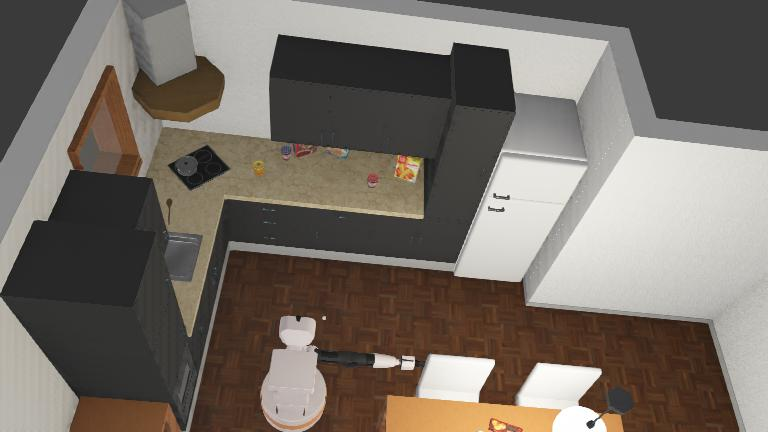
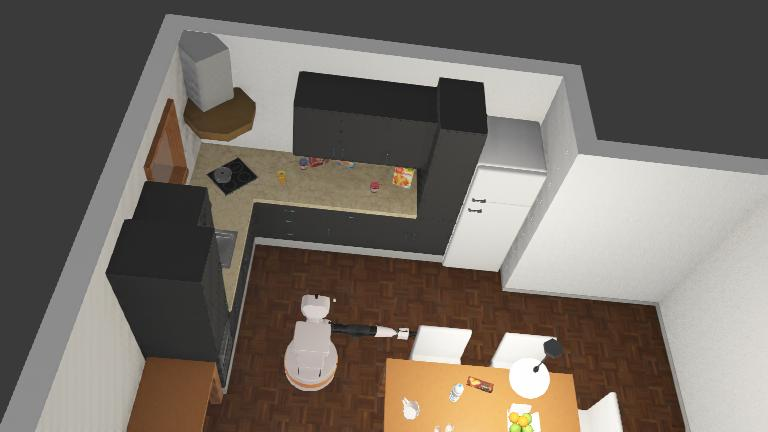
have grip around jar 2

diff --git a/controllers/main_controller/main_controller.py b/controllers/main_controller/main_controller.py
@@ -22,6 +22,7 @@ robot = Supervisor()
 mapping_waypoints = [(0.595, -0.544), (0.595,-2.58), (-0.621, -3.3),(-1.72, -2.46),(-1.72, -2.16),(-1.72, -1.96), (-1.72, -0.431),(-0.416, 0.428),(-1.24, 0.0458),(-1.59, -0.305),(-1.67, -0.651),(-1.67, -1.049),(-1.67, -2.46),(-0.621, -3.3), (0.595, -2.58),(0.595, -0.544),(-0.207,0.263),(-0.207,0.263)]
 jar1_waypoints = [(0.957,-0.082)]
 jar1_place_waypoints = [(0.38,-0.583)]
+jar2_waypoints = [(1.14,0.466)]
 
 
 # Used to store global state
@@ -79,6 +80,17 @@ reach = {
     'head_2_joint':0	
 }
 
+reach_maintain_grip = {
+    'torso_lift_joint' : 0.26,
+    'arm_1_joint' : 1.68,
+    'arm_2_joint' : -0.03,
+    'arm_3_joint' : -1.6,
+    'arm_4_joint' : 0,
+    'arm_5_joint' : 0,
+    'arm_6_joint' : 0,
+    'arm_7_joint' : 0
+}
+
 bend = {
     'arm_1_joint' : 0.07,
     'arm_2_joint' : 0.004,
@@ -95,6 +107,11 @@ close_grip = {
     'gripper_left_finger_joint' : 0.035,
     'gripper_right_finger_joint': 0.035,
     'torso_lift_joint' : 0.35   
+}
+
+open_grip = {
+    'gripper_left_finger_joint' : 0.045,
+    'gripper_right_finger_joint': 0.045
 }
 
 blackboard['waypoints'] = jar1_waypoints
@@ -151,10 +168,18 @@ tree = Sequence('Main', children = [
 	PlanningSimple("Path to Jar 1",jar1_waypoints,blackboard),
 	Navigation('Move robot to Jar 1',blackboard),
     ServoArm('Grip Jar 1',close_grip,blackboard),
-	ServoArm('Grip Jar 1',bend,blackboard),
+	ServoArm('Bend Arm',bend,blackboard),
     PlanningSimple("Path to place Jar 1", jar1_place_waypoints,blackboard),
 	Navigation('Move robot to place Jar 1',blackboard),
-	ServoArm('Move arm to Jar 1', reach, blackboard)
+	ServoArm('Move arm to place Jar 1', reach_maintain_grip, blackboard),
+	ServoArm('Release Jar 1', open_grip, blackboard),
+	ServoArm('Bend Arm',bend,blackboard),
+	PlanningSimple('Plan turn towards Jar 2', [(0.707,0.0141)],blackboard),
+	Navigation('Turn to Jar 2',blackboard),
+	ServoArm('Move arm to Jar 2', reach, blackboard),
+	PlanningSimple('Path towards Jar 2', [(1.09,0.22)],blackboard),
+	Navigation('move robot to Jar 2',blackboard)
+	#TODO: Tweak movement to jar 2
 ],memory=True)
 
 tree.setup_with_descendants()
